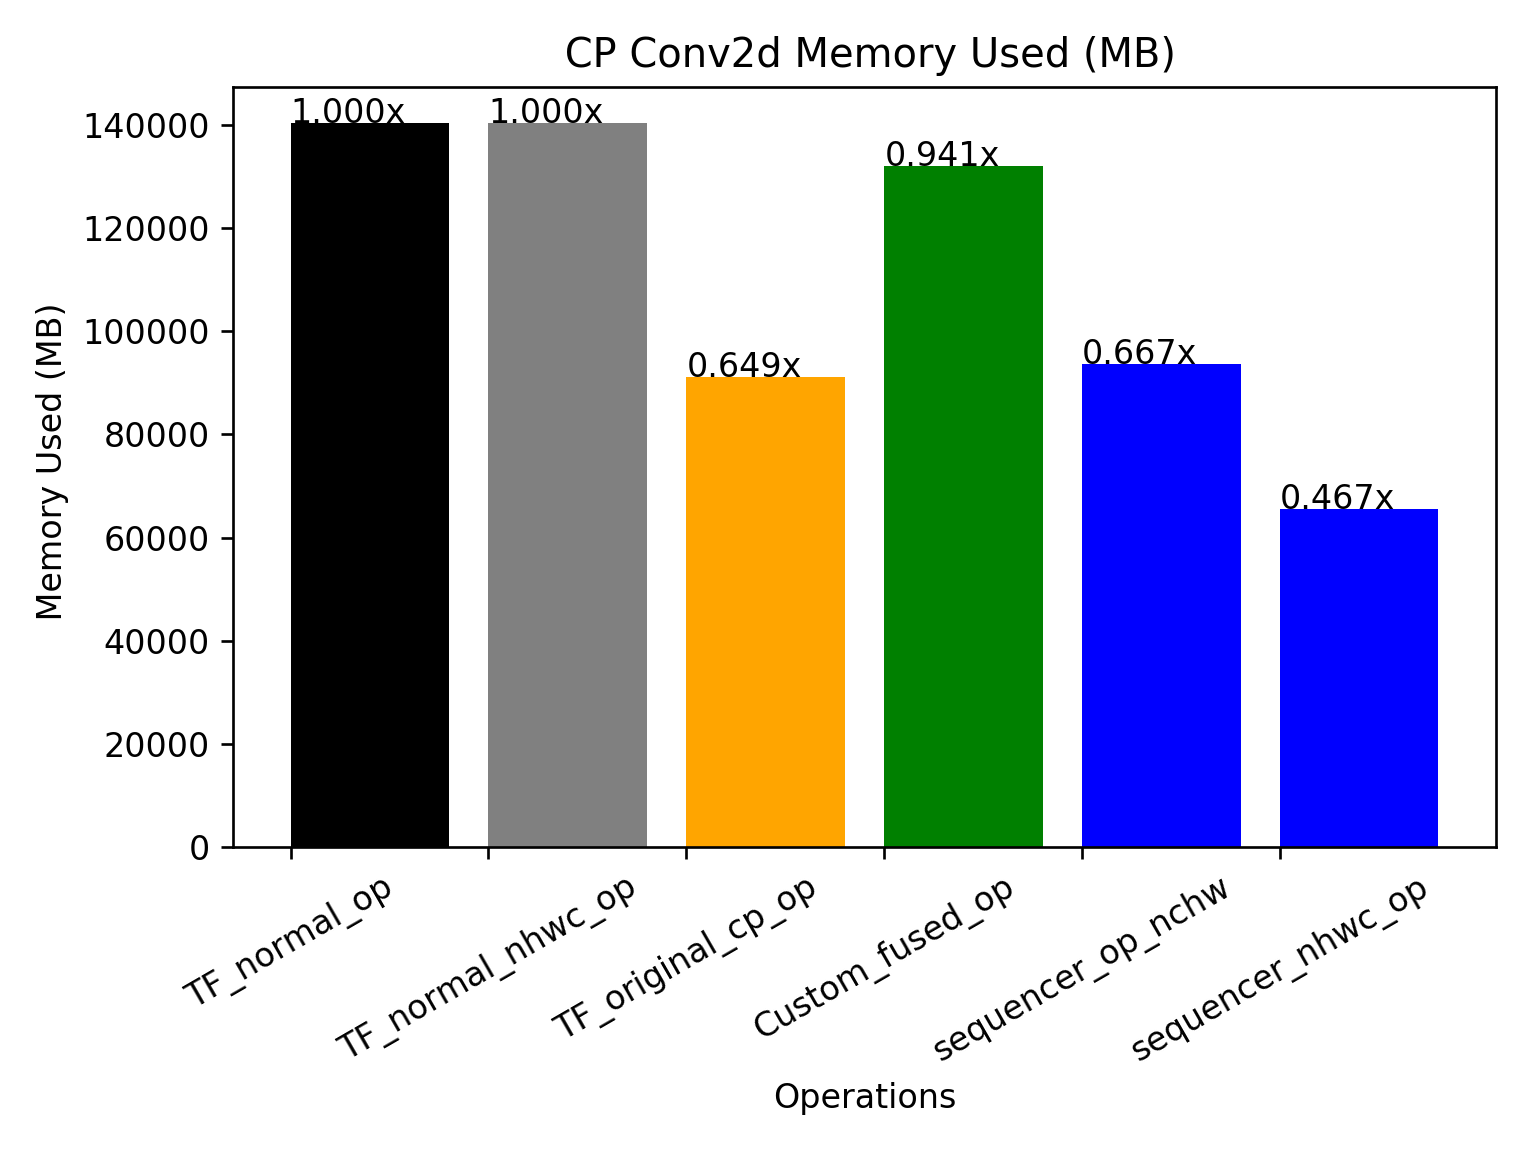
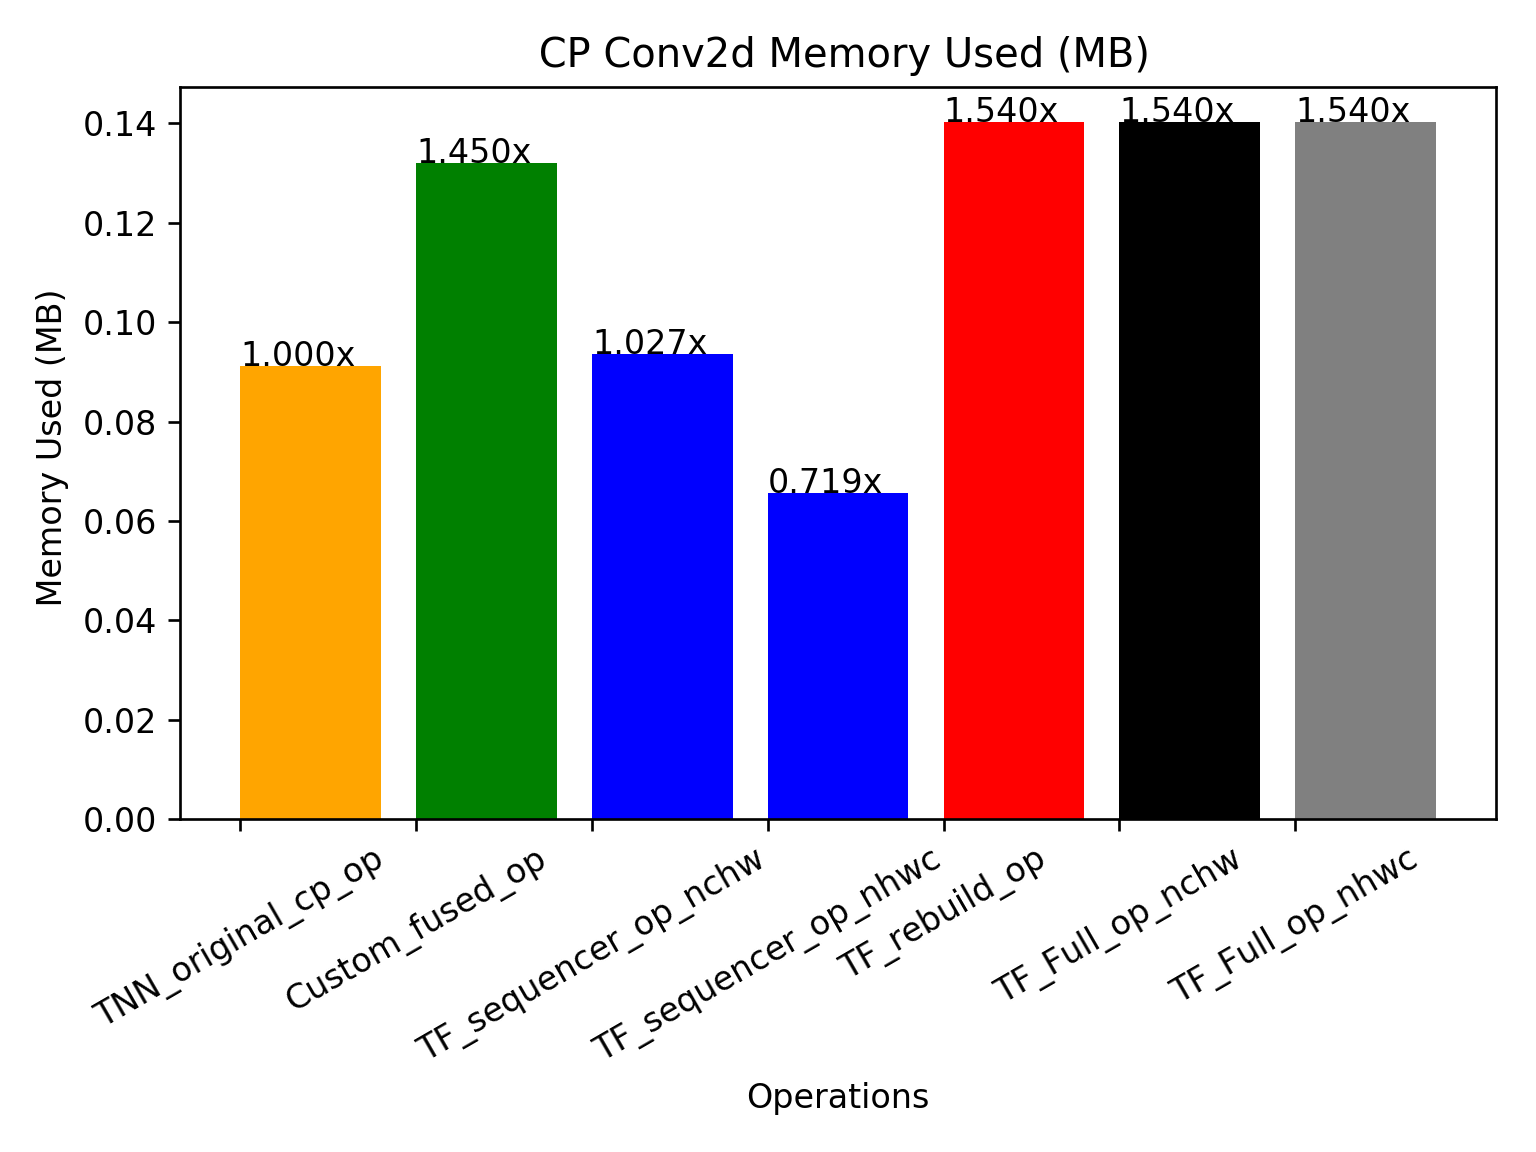
Add rebuild operations

diff --git a/results/generate_plots.py b/results/generate_plots.py
@@ -6,94 +6,96 @@ import numpy as np
 # money = [1.5e5, 2.5e6, 5.5e6, 2.0e7]
 
 cp_times = {
-        "TF_normal_op"      : (0.00045239925384521484, 'black'),
-        "TF_normal_nhwc_op" : (0.00046896934509277344, 'gray' ),
-        "TF_original_cp_op" : (0.0007028579711914062, 'orange' ),
+        "TNN_original_cp_op" : (0.0007028579711914062, 'orange' ),
         "Custom_fused_op"   : (0.0004673004150390625, 'green' ),
-        "sequencer_op_nchw" : (0.0004552602767944336, 'blue' ),
-        "sequencer_nhwc_op" : (0.00016498565673828125, 'blue' ),
+        "TF_sequencer_op_nchw" : (0.0004552602767944336, 'blue' ),
+        "TF_sequencer_op_nhwc" : (0.00016498565673828125, 'blue' ),
+        "TF_rebuild_op"     : (0.00045228004455566406, 'red' ),
+        "TF_Full_op_nchw"   : (0.00045239925384521484, 'black'),
+        "TF_Full_op_nhwc"   : (0.00046896934509277344, 'gray' ),
     }
 
 cp_memory = {
-        "TF_normal_op"      : (140288.0, 'black'),
-        "TF_normal_nhwc_op" : (140288.0, 'gray' ),
-        "TF_original_cp_op" : (91096.0, 'orange' ),
+        "TNN_original_cp_op" : (91096.0, 'orange' ),
         "Custom_fused_op"   : (132056.0,'green' ),
-        "sequencer_op_nchw" : (93568.0, 'blue' ),
-        "sequencer_nhwc_op" : (65536.0,  'blue' ),
+        "TF_sequencer_op_nchw" : (93568.0, 'blue' ),
+        "TF_sequencer_op_nhwc" : (65536.0,  'blue' ),
+        "TF_rebuild_op"     : (140288.0, 'red' ),
+        "TF_Full_op_nchw"   : (140288.0, 'black'),
+        "TF_Full_op_nhwc"   : (140288.0, 'gray' ),
     }
 
 dense_cp_times = {
-        "TF_normal_op"      : (0.00037479400634765625, 'black'),
+        "TNN_original_cp_op" : (0.0009917020797729492, 'orange'),
+        "Custom_fused_op"   : (0.0035014318466186523, 'green'),
+        "TF_sequence_op"    : (0.0010008811950683594, 'blue'),
         "TF_rebuild_op"     : (0.0022580623626708984, 'red' ),
-        "TF_einsum_op"      : (0.0019397735595703125, 'blue' ),
-        "Custom_fused_op"   : (0.0036014318466186523, 'green'),
-        }
+        "TF_einsum_op"      : (0.0019397735595703125, 'pink' ),
+        "TF_Full_op"        : (0.00045079400634765625, 'black'),
+    }
 
 dense_cp_memory = {
-        "TF_normal_op"      : (1081344.0, 'black'),
-        "TF_rebuild_op"     : (145950976.0, 'red'),
-        "TF_einsum_op"      : (154877952.0, 'blue'),
+        "TNN_original_cp_op" : (1192448.0, 'orange'),
         "Custom_fused_op"   : (121856.0, 'green'),
-        }
+        "TF_sequence_op"    : (1192448.0, 'blue'),
+        "TF_rebuild_op"     : (145950976.0, 'red'),
+        "TF_einsum_op"      : (154877952.0, 'pink'),
+        "TF_Full_op"      : (1081344.0, 'black'),
+    }
 
 rcp_times = {
-        "TF_normal_op"      : (0.0005061626434326172, 'black'),
-        "TF_einsum_recomp_op" : (0.000836491584777832, 'red' ),
+        "TNN_orig_op"        : (0.000947117805480957, 'orange' ),
         "Custom_fused_op"   : (0.0009247064590454102, 'green' ),
-        "TF_orig_op"        : (0.000947117805480957, 'orange' ),
-        "TF_seq_nchw_op"    : (0.000874638557434082, 'blue' ),
-        "TF_seq_nhwc_op"    : (0.0009196996688842773, 'blue'),
+        "TF_seq_nchw_op"    : (0.001069784164428711, 'blue' ),
+        "TF_seq_nhwc_op"    : (0.0011096996688842773, 'blue'),
+        "TF_einsum_recomp_op" : (0.000836491584777832, 'red' ),
+        "TF_Full_op"      : (0.0005061626434326172, 'black'),
     }
 
 rcp_memory = {
-        "TF_normal_op"      : (140288.0, 'black'),
-        "TF_einsum_recomp_op" : (176128.0, 'red' ),
+        "TTNN_orig_op"        : (1442892.0,'orange' ),
         "Custom_fused_op"   : (132876.0, 'green' ),
-        "TF_orig_op"        : (1442892.0,'orange' ),
         "TF_seq_nchw_op"    : (1442188.0,'blue' ),
         "TF_seq_nhwc_op"    : (1442188.0, 'blue'),
+        "TF_einsum_recomp_op" : (176128.0, 'red' ),
+        "TF_Full_op"      : (140288.0, 'black'),
     }
 
-
-# def millions(x, pos):
-#     'The two args are the value and tick position'
-#     return '$%1.1fM' % (x * 1e-6)
 def microseconds(x, pos):
     return '{:.2f}'.format(x * 1e3)
 
 def megabytes(x, pos):
     return '{:.2f}'.format(x * 1e-6)
 
-# formatter = FuncFormatter(millions)
 timeformatter = FuncFormatter(microseconds)
 sizeformatter = FuncFormatter(megabytes)
 
 times = [cp_times, rcp_times, dense_cp_times]
 memory = [cp_memory, rcp_memory, dense_cp_memory]
 names = ['CP Conv2d', 'rCP Conv2d', 'CP Dense']
-# plot_type = ['Absolute.', 'Relative to Normal Operation.']
 formats = [timeformatter, sizeformatter]
-# lists = [val for pair in zip(times, memory) for val in pair]
 
 for n, name in enumerate(names):
     for i, D in enumerate((times[n], memory[n])):
         # for pt, pt_name in enumerate(plot_type):
         fig, ax = plt.subplots()
 
-        pnm = 'Execution Time (s)' if i==0 else 'Memory Used (MB)'
 
         vals_colors = list(D.values())
         vals, colors = zip(*vals_colors)
 
         ratios = [v / vals[0] for v in vals]
-        # print(ratios)
 
         for to_log in range(2):
             lgname = ''
+            fmt = formats[i]
+            pnm = r'Mean Execution Time ($\mu s$)' if i==0 else 'Memory Used (MB)'
             if to_log == 1:
                 lgname = 'log'
                 plt.yscale("log")
+                pnm = r'Mean Execution Time ($s$)' if i==0 else 'Memory Used (B)'
+            else:
+                ax.yaxis.set_major_formatter(formats[i])
 
             title = lgname+' '+name+' '+pnm
             plt.title(title)
